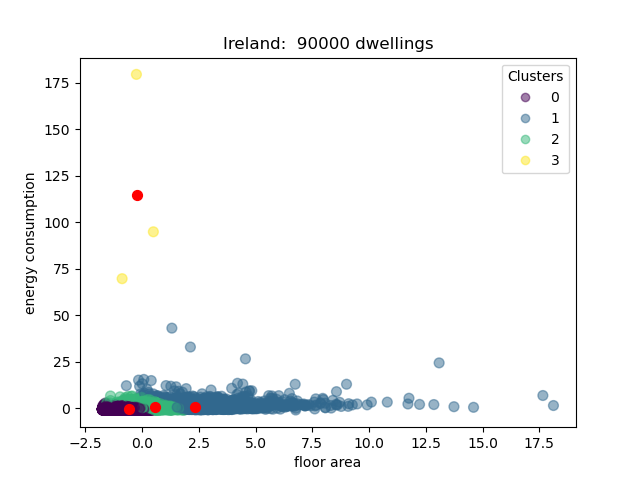
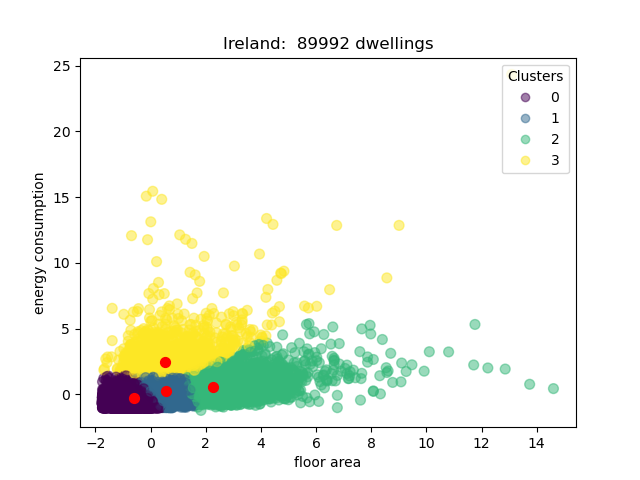
kmeans removing outliers

diff --git a/src/at/uibk/epc/clustering/kmeans/clustering_per_country.py b/src/at/uibk/epc/clustering/kmeans/clustering_per_country.py
@@ -21,7 +21,7 @@ def pd_centers(cols_of_interest, centers):
     return P
 
 
-def clusering_kmeans(k_clusters, country, dbData, queryThermalDataFields):
+def clustering_kmeans(k_clusters, country, dbData, queryThermalDataFields, floor_area_outlier_borders, energy_consumption_outlier_borders):
     # for data in englandData:
     #    print(data.get('awardedRating').get('ratingLevel'))
     #    break
@@ -38,12 +38,80 @@ def clusering_kmeans(k_clusters, country, dbData, queryThermalDataFields):
 
     # fitting the data is quite important, the clusters are now more like circles; the non-fitted data was more like strapes.
     slim_fitted_df = StandardScaler().fit_transform(slim_data_df)
+    print("scaled dataset type")
+    print(type(slim_fitted_df))
+
+    # remove the outliers which we detected already visually by running a kmeans plot before
+    print("=== Outliers")
+    # however, first convert the data back into a dataframe
+    slim_data_df_optimised = pd.DataFrame(
+        slim_fitted_df, columns=['ratedDwelling_spatialData_totalFloorArea_value', queryThermalDataFields])
+
+    print(slim_data_df_optimised.shape)
+    print(slim_data_df_optimised)
+
+    print(country + ' outlier borders floor_area' +
+          str(floor_area_outlier_borders))
+    print(country + ' outlier borders energy_consumption' +
+          str(energy_consumption_outlier_borders))
+
+    print('Outliers')
+    slim_data_df_optimised_floor_area = slim_data_df_optimised[slim_data_df_optimised[
+        'ratedDwelling_spatialData_totalFloorArea_value'] >= floor_area_outlier_borders[0]]
+    slim_data_df_optimised_energy_consumption = slim_data_df_optimised[
+        slim_data_df_optimised[queryThermalDataFields] > energy_consumption_outlier_borders[0]]
+
+    print(slim_data_df_optimised_floor_area)
+
+    if country == 'England':
+        slim_data_df_optimised_energy_consumption_lower = slim_data_df_optimised[
+            slim_data_df_optimised[queryThermalDataFields] < energy_consumption_outlier_borders[1]]
+        print(slim_data_df_optimised_energy_consumption_lower)
+        frames = [slim_data_df_optimised_energy_consumption,
+                  slim_data_df_optimised_energy_consumption_lower]
+        slim_data_df_optimised_energy_consumption = pd.concat(
+            frames, sort=False)
+    print(slim_data_df_optimised_energy_consumption)
+
+    print("Outliers indexes")
+    index_outliers_floorArea = slim_data_df_optimised_floor_area.index.values
+    index_outliers_thermal = slim_data_df_optimised_energy_consumption.index.values
+
+    print("index_outliers_floorArea")
+    print(index_outliers_floorArea)
+    print("index_outliers_thermal")
+    print(index_outliers_thermal)
+
+    # Removing the Outliers
+    slim_data_df_optimised = slim_data_df_optimised.drop(
+        index=index_outliers_floorArea)
+    slim_data_df_optimised = slim_data_df_optimised.drop(
+        index=index_outliers_thermal)
+    print("scaled data after droping the outliers")
+    print(slim_data_df_optimised.shape)
+    # remove the same index rows in the original data
+    data_df = data_df.drop(
+        index=index_outliers_floorArea)
+    data_df = data_df.drop(index=index_outliers_thermal)
+    print("original data after droping the outliers")
+    print(data_df.shape)
+
+    print("rechecking")
+    print(slim_data_df_optimised[slim_data_df_optimised_floor_area])
+    print(slim_data_df_optimised[slim_data_df_optimised_energy_consumption])
+
+    print("transforming the optimised dataset back to an array")
+    slim_data_df_optimised_as_array = slim_data_df_optimised.to_numpy()
+    print(slim_data_df_optimised_as_array.shape)
+    print(type(slim_data_df_optimised_as_array))
+    print("=== Outliers END")
 
     # what about fit_predict?
     kmeans = KMeans(n_clusters=k_clusters,
-                    init='k-means++').fit(slim_fitted_df)
+                    init='k-means++').fit(slim_data_df_optimised_as_array)
     centroids = kmeans.cluster_centers_
     labels = kmeans.labels_
+    print("=== CENTROIDS")
     print(centroids)
     print(labels)
 
@@ -70,14 +138,14 @@ def clusering_kmeans(k_clusters, country, dbData, queryThermalDataFields):
     # plt.scatter(slim_data_df['ratedDwelling_spatialData_totalFloorArea_value'],
     #            slim_data_df['ratedDwelling_thermalData_finalEnergyDemand_value'], c=kmeans.labels_.astype(float), s=50, alpha=0.5)
 
-    scatter = plt.scatter(slim_fitted_df[:, 0],
-                          slim_fitted_df[:, 1], c=kmeans.labels_.astype(float), s=50, alpha=0.5)
+    scatter = plt.scatter(slim_data_df_optimised_as_array[:, 0],
+                          slim_data_df_optimised_as_array[:, 1], c=kmeans.labels_.astype(float), s=50, alpha=0.5)
 
     plt.scatter(centroids[:, 0], centroids[:, 1], c='red', s=50)
     plt.xlabel("floor area")
     plt.ylabel("energy consumption")
     plt.title(country + ":  " +
-              str(len(slim_fitted_df) + 1) + " dwellings")
+              str(len(slim_data_df_optimised_as_array) + 1) + " dwellings")
 
     # https://matplotlib.org/3.2.1/gallery/lines_bars_and_markers/scatter_with_legend.html#sphx-glr-gallery-lines-bars-and-markers-scatter-with-legend-py
     # produce a legend with the unique colors from the scatter

diff --git a/src/at/uibk/epc/clustering/kmeans/clustering_per_country_Ireland.py b/src/at/uibk/epc/clustering/kmeans/clustering_per_country_Ireland.py
@@ -6,7 +6,7 @@ from sklearn.cluster import KMeans
 from sklearn.preprocessing import StandardScaler
 import matplotlib.pyplot as plt
 from db_data_per_country import getRawData
-from clustering_per_country import clusering_kmeans
+from clustering_per_country import clustering_kmeans
 import os
 
 country = 'Ireland'
@@ -20,4 +20,17 @@ dbData = getRawData(
 #k = 7
 k = 4
 thermalFields = 'ratedDwelling_thermalData_finalEnergyDemand_value'
-clusering_kmeans(k, country, dbData, thermalFields)
+
+# Defining border for outlier elimination
+floor_area_outlier_upper_border = 15
+
+energy_consumption_upper_border = 25
+energy_consumption_lower_border = -5
+
+floor_area_outlier_borders = [
+    floor_area_outlier_upper_border]
+energy_consumption_outlier_borders = [
+    energy_consumption_upper_border, energy_consumption_lower_border]
+
+clustering_kmeans(k, country, dbData, thermalFields, floor_area_outlier_borders,
+                  energy_consumption_outlier_borders)

diff --git a/src/at/uibk/epc/clustering/kmeans/clustering_per_country_Scotland.py b/src/at/uibk/epc/clustering/kmeans/clustering_per_country_Scotland.py
@@ -6,7 +6,7 @@ from sklearn.cluster import KMeans
 from sklearn.preprocessing import StandardScaler
 import matplotlib.pyplot as plt
 from db_data_per_country import getRawData
-from clustering_per_country import clusering_kmeans
+from clustering_per_country import clustering_kmeans
 import os
 
 country = 'Scotland'
@@ -19,4 +19,17 @@ dbData = getRawData(
 
 k = 3
 thermalFields = 'ratedDwelling_thermalData_primaryEnergyDemand_value'
-clusering_kmeans(k, country, dbData, thermalFields)
+
+# Defining border for outlier elimination
+floor_area_outlier_upper_border = 15
+
+energy_consumption_upper_border = 12.5
+energy_consumption_lower_border = -5
+
+floor_area_outlier_borders = [
+    floor_area_outlier_upper_border]
+energy_consumption_outlier_borders = [
+    energy_consumption_upper_border, energy_consumption_lower_border]
+
+clustering_kmeans(k, country, dbData, thermalFields,
+                  floor_area_outlier_borders, energy_consumption_outlier_borders)

diff --git a/src/at/uibk/epc/clustering/kmeans/clustering_per_country_France.py b/src/at/uibk/epc/clustering/kmeans/clustering_per_country_France.py
@@ -6,7 +6,7 @@ from sklearn.cluster import KMeans
 from sklearn.preprocessing import StandardScaler
 import matplotlib.pyplot as plt
 from db_data_per_country import getRawData
-from clustering_per_country import clusering_kmeans
+from clustering_per_country import clustering_kmeans
 import os
 
 country = 'France'
@@ -20,4 +20,17 @@ dbData = getRawData(
 
 k = 3
 thermalFields = 'ratedDwelling_thermalData_finalEnergyConsumption_value'
-clusering_kmeans(k, country, dbData, thermalFields)
+
+# Defining border for outlier elimination
+floor_area_outlier_upper_border = 10
+
+energy_consumption_upper_border = 3
+energy_consumption_lower_border = -5
+
+floor_area_outlier_borders = [
+    floor_area_outlier_upper_border]
+energy_consumption_outlier_borders = [
+    energy_consumption_upper_border, energy_consumption_lower_border]
+
+clustering_kmeans(k, country, dbData, thermalFields, floor_area_outlier_borders,
+                  energy_consumption_outlier_borders)

diff --git a/src/at/uibk/epc/clustering/kmeans/clustering_per_country_England.py b/src/at/uibk/epc/clustering/kmeans/clustering_per_country_England.py
@@ -6,7 +6,7 @@ from sklearn.cluster import KMeans
 from sklearn.preprocessing import StandardScaler
 import matplotlib.pyplot as plt
 from db_data_per_country import getRawData
-from clustering_per_country import clusering_kmeans
+from clustering_per_country import clustering_kmeans
 import os
 
 country = 'England'
@@ -19,4 +19,17 @@ dbData = getRawData(
 
 k = 5
 thermalFields = 'ratedDwelling_thermalData_finalEnergyDemand_value'
-clusering_kmeans(k, country, dbData, thermalFields)
+
+# Defining border for outlier elimination
+floor_area_outlier_upper_border = 20
+
+energy_consumption_upper_border = 12.5
+energy_consumption_lower_border = -5
+
+floor_area_outlier_borders = [
+    floor_area_outlier_upper_border]
+energy_consumption_outlier_borders = [
+    energy_consumption_upper_border, energy_consumption_lower_border]
+
+clustering_kmeans(k, country, dbData, thermalFields,
+                  floor_area_outlier_borders, energy_consumption_outlier_borders)
